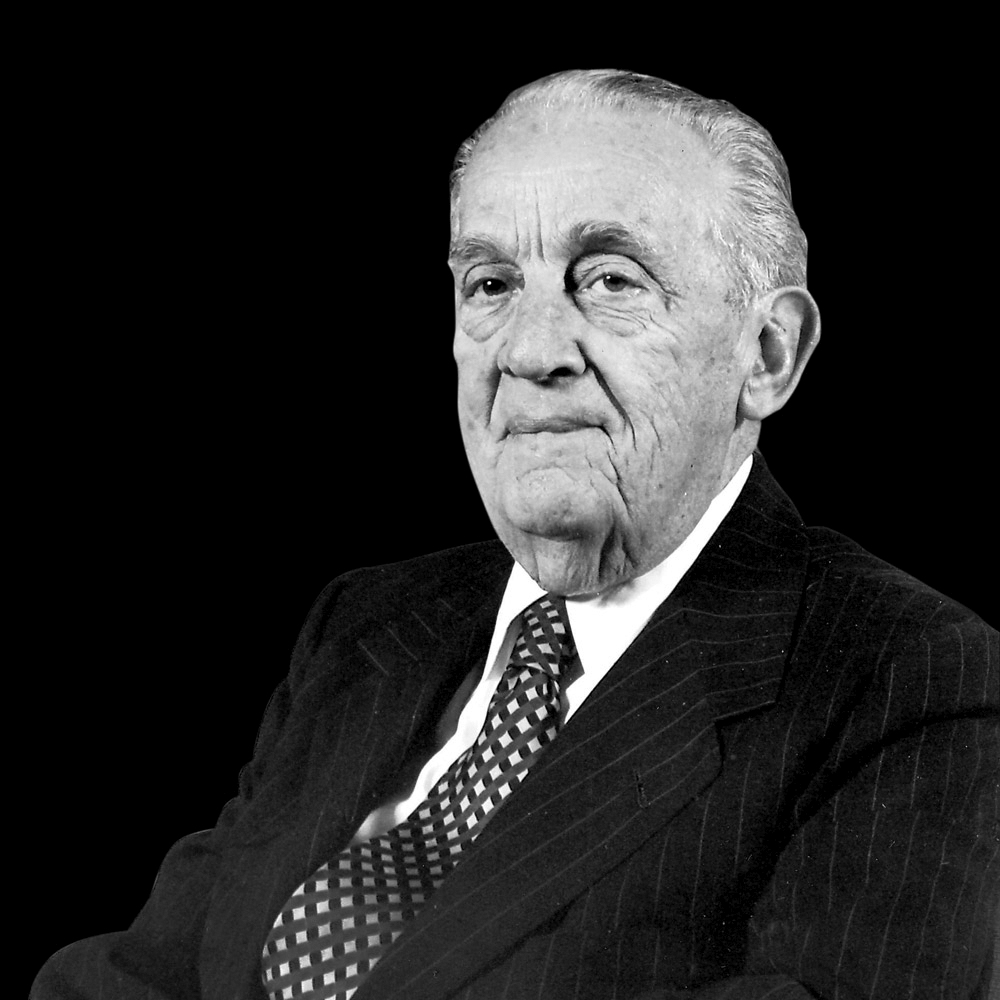
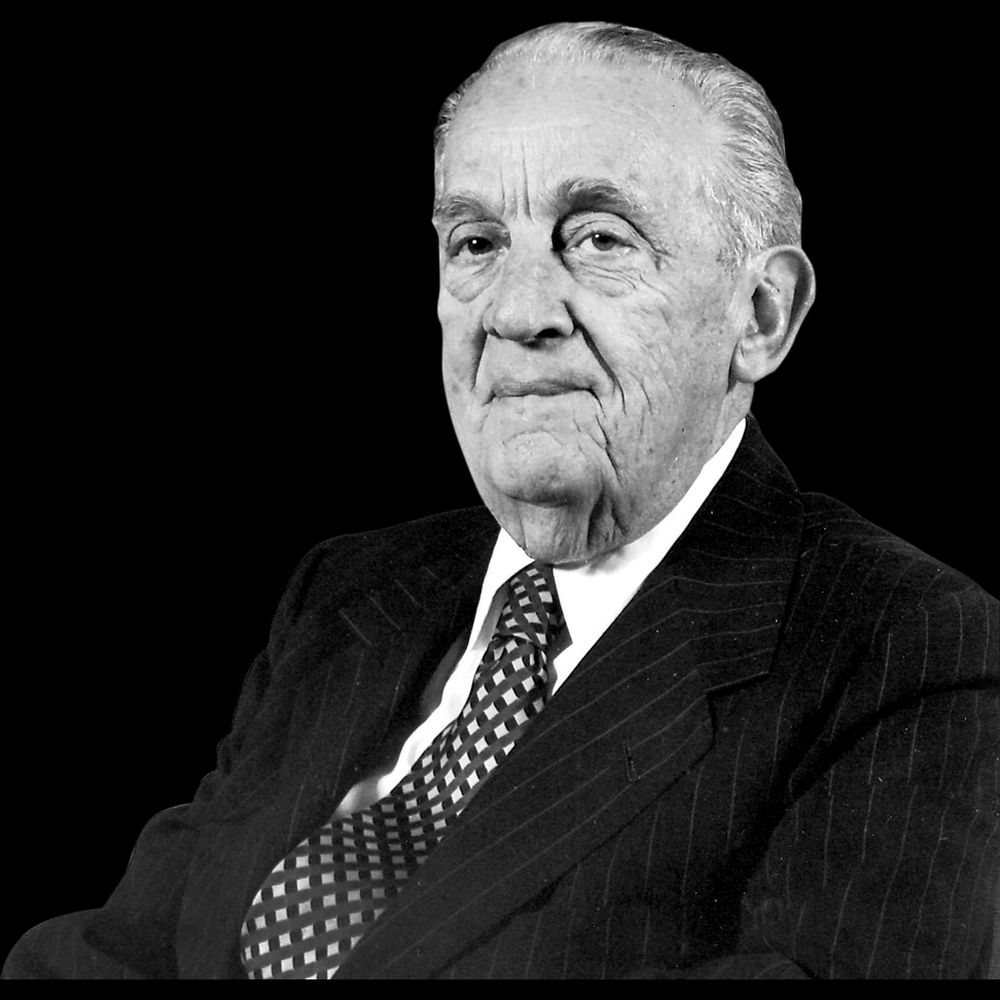
feat: triangular clip paths matching figma, selected projects cta with purple triangle and full institutional footer

diff --git a/components/ui/AppFooter.vue b/components/ui/AppFooter.vue
@@ -1,45 +1,54 @@
 <template>
-  <footer class="w-full bg-[#1C1C1C] min-h-[358px] flex items-center py-12 md:py-0">
-    <div class="max-w-[1720px] w-full mx-auto px-6 sm:px-12 grid grid-cols-1 md:grid-cols-12 gap-8 md:gap-12 items-center text-center md:text-left">
-      <!-- Izquierda: Logo CRGS con elevación sutil -->
-      <div class="md:col-span-4 flex justify-center md:justify-start">
-        <NuxtLink to="/crgs" class="inline-block transition-transform duration-300 hover:scale-105 active:scale-95" aria-label="Centro Roberto Garza Sada">
-          <img
-            src="/images/footer-crgs.png"
-            alt="Centro Roberto Garza Sada"
-            class="h-16 sm:h-20 md:h-24 w-auto object-contain brightness-110"
-          />
+  <footer class="w-full bg-[#0B0B0B] min-h-[340px] flex items-center py-14 md:py-16 select-none border-t border-white/5">
+    <div class="max-w-[1720px] w-full mx-auto px-6 sm:px-12 grid grid-cols-1 md:grid-cols-12 gap-10 md:gap-8 items-center text-center md:text-left">
+      <!-- Izquierda: Texto institucional CRGS y corte diagonal -->
+      <div class="md:col-span-4 flex flex-col items-center md:items-start space-y-3">
+        <span class="font-barlow text-xs sm:text-sm font-medium tracking-[0.2em] text-white/70 uppercase">
+          ESCUELA DE ARTE Y DISEÑO · UNIVERSIDAD DE MONTERREY
+        </span>
+        <NuxtLink
+          to="/crgs"
+          class="group inline-flex items-center gap-3 transition-opacity duration-200 hover:opacity-90"
+          aria-label="Centro Roberto Garza Sada de Arte Arquitectura y Diseño"
+        >
+          <div class="flex items-center gap-3">
+            <span class="font-barlow font-bold text-base sm:text-lg text-white tracking-wider uppercase leading-tight">
+              CENTRO ROBERTO GARZA SADA
+            </span>
+            <!-- Línea diagonal divisoria de corte -->
+            <span class="h-6 w-[2px] bg-white/40 transform rotate-[25deg] inline-block shrink-0" aria-hidden="true" />
+            <span class="font-barlow font-normal text-xs sm:text-sm text-white/80 tracking-widest uppercase leading-tight">
+              DE ARTE ARQUITECTURA Y DISEÑO
+            </span>
+          </div>
         </NuxtLink>
       </div>
 
-      <!-- Centro: 4 enlaces oficiales con subrayado expansivo y feedback táctil -->
+      <!-- Centro: 4 enlaces oficiales subrayados de Figma -->
       <div class="md:col-span-4 flex justify-center">
-        <ul class="flex flex-col space-y-2 sm:space-y-3 font-barlow text-xl md:text-[30px] text-white leading-relaxed text-center md:text-left">
+        <ul class="flex flex-col space-y-3 sm:space-y-4 font-barlow text-lg sm:text-xl md:text-2xl text-white leading-relaxed text-center md:text-left">
           <li>
             <NuxtLink
               to="/crgs"
-              class="group relative inline-block text-white/90 hover:text-white transition-colors duration-200 active:scale-95"
+              class="group relative inline-block text-white/90 hover:text-white underline underline-offset-8 decoration-white/40 hover:decoration-[#F6D152] transition-colors duration-200 active:scale-95"
             >
               <span>Centro de Artes I UDEM</span>
-              <span class="absolute bottom-0 left-0 w-full h-[2px] bg-[#F6D152] origin-left scale-x-0 group-hover:scale-x-100 transition-transform duration-300 ease-out pointer-events-none" />
             </NuxtLink>
           </li>
           <li>
             <NuxtLink
               to="/crgs"
-              class="group relative inline-block text-white/90 hover:text-white transition-colors duration-200 active:scale-95"
+              class="group relative inline-block text-white/90 hover:text-white underline underline-offset-8 decoration-white/40 hover:decoration-[#F6D152] transition-colors duration-200 active:scale-95"
             >
               <span>Historia del CRGS</span>
-              <span class="absolute bottom-0 left-0 w-full h-[2px] bg-[#F6D152] origin-left scale-x-0 group-hover:scale-x-100 transition-transform duration-300 ease-out pointer-events-none" />
             </NuxtLink>
           </li>
           <li>
             <NuxtLink
               to="/crgs"
-              class="group relative inline-block text-white/90 hover:text-white transition-colors duration-200 active:scale-95"
+              class="group relative inline-block text-white/90 hover:text-white underline underline-offset-8 decoration-white/40 hover:decoration-[#F6D152] transition-colors duration-200 active:scale-95"
             >
               <span>Recorridos</span>
-              <span class="absolute bottom-0 left-0 w-full h-[2px] bg-[#F6D152] origin-left scale-x-0 group-hover:scale-x-100 transition-transform duration-300 ease-out pointer-events-none" />
             </NuxtLink>
           </li>
           <li>
@@ -47,29 +56,31 @@
               href="https://www.udem.edu.mx"
               target="_blank"
               rel="noopener noreferrer"
-              class="group relative inline-block text-white/90 hover:text-white transition-colors duration-200 active:scale-95"
+              class="group relative inline-block text-white/90 hover:text-white underline underline-offset-8 decoration-white/40 hover:decoration-[#F6D152] transition-colors duration-200 active:scale-95"
             >
               <span>Universidad de Monterrey</span>
-              <span class="absolute bottom-0 left-0 w-full h-[2px] bg-[#F6D152] origin-left scale-x-0 group-hover:scale-x-100 transition-transform duration-300 ease-out pointer-events-none" />
             </a>
           </li>
         </ul>
       </div>
 
-      <!-- Derecha: Logo UDEM con micro-escala -->
+      <!-- Derecha: Logotipo oficial de UDEM con texto 'UNIVERSIDAD DE MONTERREY' -->
       <div class="md:col-span-4 flex justify-center md:justify-end">
         <a
           href="https://www.udem.edu.mx"
           target="_blank"
           rel="noopener noreferrer"
-          class="inline-block transition-transform duration-300 hover:scale-105 active:scale-95"
+          class="inline-flex flex-col items-center md:items-end space-y-2 group transition-transform duration-300 hover:scale-105 active:scale-95"
           aria-label="Universidad de Monterrey"
         >
           <img
             src="/images/footer-udem.png"
-            alt="Universidad de Monterrey"
-            class="h-10 sm:h-12 md:h-14 w-auto object-contain"
+            alt="Logo UDEM"
+            class="h-8 sm:h-10 md:h-12 w-auto object-contain brightness-110"
           />
+          <span class="font-barlow text-xs sm:text-sm tracking-[0.22em] text-white/80 uppercase group-hover:text-white transition-colors">
+            UNIVERSIDAD DE MONTERREY
+          </span>
         </a>
       </div>
     </div>
@@ -77,5 +88,6 @@
 </template>
 
 <script setup lang="ts">
-// Footer institucional oficial de Figma con subrayado expansivo y feedback táctil
+// Footer institucional oficial de Figma en fondo #0B0B0B con texto apilado,
+// corte diagonal, 4 enlaces subrayados y logotipo oficial UDEM
 </script>

diff --git a/components/home/HomeSelectedProjectsCta.vue b/components/home/HomeSelectedProjectsCta.vue
@@ -1,0 +1,44 @@
+<template>
+  <section class="w-full bg-[#FFFFFF] py-24 sm:py-32 lg:py-40 relative overflow-hidden select-none">
+    <div class="max-w-[1440px] mx-auto px-4 sm:px-8 lg:px-12 flex justify-center items-center">
+      <NuxtLink
+        to="/zona-maco"
+        class="group relative flex flex-col items-center justify-center cursor-pointer focus:outline-none focus-visible:ring-4 focus-visible:ring-[#7B4680]/30 rounded-3xl p-6 sm:p-10 transition-all duration-300 w-full max-w-5xl"
+        aria-label="Haz click para ver los Proyectos Seleccionados"
+      >
+        <!-- Triángulo Morado / Ciruela (#7B4680) de Figma SVG centrado -->
+        <div class="relative w-full max-w-[340px] sm:max-w-[500px] md:max-w-[640px] lg:max-w-[760px] flex items-center justify-center">
+          <svg
+            viewBox="0 0 520 340"
+            class="w-full h-auto drop-shadow-[0_20px_40px_rgba(123,70,128,0.25)] transition-transform duration-500 ease-out group-hover:scale-105 group-hover:-translate-y-1"
+            aria-hidden="true"
+          >
+            <polygon points="0,220 520,0 360,340" fill="#7B4680" />
+          </svg>
+
+          <!-- Bloque de Texto Centrado Superpuesto al Triángulo Morado -->
+          <div class="absolute inset-0 flex flex-col items-center justify-center text-center px-4 z-10 pointer-events-none">
+            <p class="font-barlow text-2xl sm:text-3xl text-neutral-800 text-center font-normal tracking-tight mb-2 sm:mb-4">
+              Haz click para ver los
+            </p>
+
+            <h2 class="font-barlow font-bold italic text-5xl sm:text-6xl md:text-7xl lg:text-8xl xl:text-9xl text-neutral-950 tracking-tightest leading-none text-center">
+              <span class="relative inline-block pb-1 sm:pb-2">
+                Proyectos Seleccionados
+                <!-- Subrayado suave al hacer hover -->
+                <span
+                  class="absolute bottom-0 left-0 w-full h-[3px] sm:h-[4px] md:h-[6px] bg-neutral-950 origin-left scale-x-0 group-hover:scale-x-100 transition-transform duration-500 ease-out pointer-events-none"
+                />
+              </span>
+            </h2>
+          </div>
+        </div>
+      </NuxtLink>
+    </div>
+  </section>
+</template>
+
+<script setup lang="ts">
+// Sección 'Proyectos Seleccionados' de Figma con polígono morado (#7B4680)
+// Hover interactivo con subrayado suave y enlace a la página de obras (/zona-maco)
+</script>

diff --git a/components/home/InspirationPeekingTriangle.vue b/components/home/InspirationPeekingTriangle.vue
@@ -2,25 +2,26 @@
   <button
     type="button"
     :aria-label="side === 'left' ? `Ver figura anterior: ${figure.name}` : `Ver figura siguiente: ${figure.name}`"
-    class="hidden md:flex flex-col items-center justify-center absolute top-1/2 -translate-y-1/2 z-10 opacity-50 hover:opacity-100 scale-75 hover:scale-80 transition-all duration-300 cursor-pointer group focus:outline-none focus:ring-2 focus:ring-[#A5BCD5]/50 rounded-lg"
-    :class="side === 'left' ? '-left-8 lg:-left-16 xl:-left-24' : '-right-8 lg:-right-16 xl:-right-24'"
+    class="hidden md:flex flex-col items-center justify-center absolute top-1/2 -translate-y-1/2 z-10 opacity-60 hover:opacity-100 scale-90 hover:scale-100 transition-all duration-300 cursor-pointer group focus:outline-none focus:ring-2 focus:ring-[#A5BCD5]/50 rounded-lg"
+    :class="side === 'left' ? '-left-6 lg:-left-12 xl:-left-16' : '-right-6 lg:-right-12 xl:-right-16'"
     @click="$emit('navigate')"
   >
-    <div class="w-36 md:w-44 lg:w-60 aspect-square filter drop-shadow-[0_15px_30px_rgba(0,0,0,0.85)]">
+    <div class="w-36 md:w-44 lg:w-56 aspect-square filter drop-shadow-[0_15px_30px_rgba(0,0,0,0.85)]">
       <img
         :src="figure.image"
         :alt="figure.alt"
-        class="w-full h-full object-cover grayscale contrast-110 brightness-90 hover:grayscale-0 transition-all duration-500 block pointer-events-none"
-        :style="{ clipPath: figure.clipPath }"
+        class="w-full h-full object-cover grayscale contrast-110 brightness-95 hover:grayscale-0 transition-all duration-500 block pointer-events-none"
+        :style="{ clipPath: peekingClipPath }"
       />
     </div>
   </button>
 </template>
 
 <script setup lang="ts">
+import { computed } from 'vue'
 import type { InspirationSlide } from '~/composables/useInspiration'
 
-defineProps<{
+const props = defineProps<{
   figure: InspirationSlide
   side: 'left' | 'right'
 }>()
@@ -28,4 +29,10 @@ defineProps<{
 defineEmits<{
   (e: 'navigate'): void
 }>()
+
+const peekingClipPath = computed(() => {
+  return props.side === 'left'
+    ? 'polygon(100% 0%, 0% 50%, 100% 100%)'
+    : 'polygon(0% 0%, 100% 50%, 0% 100%)'
+})
 </script>

diff --git a/composables/useInspiration.ts b/composables/useInspiration.ts
@@ -21,7 +21,7 @@ export const inspirationCarouselSlides: InspirationSlide[] = [
       'Durante su vida hizo innumerables contribuciones en educación, arte y filantropía.'
     ],
     image: '/images/margarita-garza-sada.png',
-    clipPath: 'polygon(0% 100%, 65% 0%, 100% 100%)',
+    clipPath: 'polygon(0% 100%, 72% 0%, 100% 100%)',
     alt: 'Doña Margarita Garza Sada de Fernández'
   },
   {
@@ -46,7 +46,7 @@ export const inspirationCarouselSlides: InspirationSlide[] = [
       'Tadao Ando nació en 1941 en Osaka, Japón. En 1969, estableció la compañía Tadao Ando Architect & Associates y, desde entonces, ha sido reconocido por sus numerosos trabajos en Japón y en otros países. Entre sus reconocimientos se incluyen virtualmente todos los premios que Japón concede para la arquitectura y las artes, así como grandes premios internacionales.'
     ],
     image: '/images/tadao-ando.png',
-    clipPath: 'polygon(0% 50%, 100% 0%, 100% 100%)',
+    clipPath: 'polygon(100% 0%, 0% 50%, 100% 100%)',
     alt: 'Tadao Ando'
   }
 ]

diff --git a/composables/useInspirationAutoplay.ts b/composables/useInspirationAutoplay.ts
@@ -11,7 +11,7 @@ export interface AutoplayOptions {
 export function useInspirationAutoplay(options: AutoplayOptions) {
   const {
     total,
-    initialIndex = 1,
+    initialIndex = 0,
     duration = 5500,
     tickInterval = 50,
     onNavigate

diff --git a/components/home/InspirationCarousel.vue b/components/home/InspirationCarousel.vue
@@ -129,7 +129,7 @@ const {
   onTouchEnd
 } = useInspirationAutoplay({
   total: slides.length,
-  initialIndex: 1,
+  initialIndex: 0,
   duration: 5500,
   onNavigate: (_index, dir) => playSlideAnimation(dir)
 })

diff --git a/pages/index.vue b/pages/index.vue
@@ -6,6 +6,7 @@
     <HomeBannerZM />
     <HomeCrgs />
     <HomeInspiration />
+    <HomeSelectedProjectsCta />
   </div>
 </template>
 
